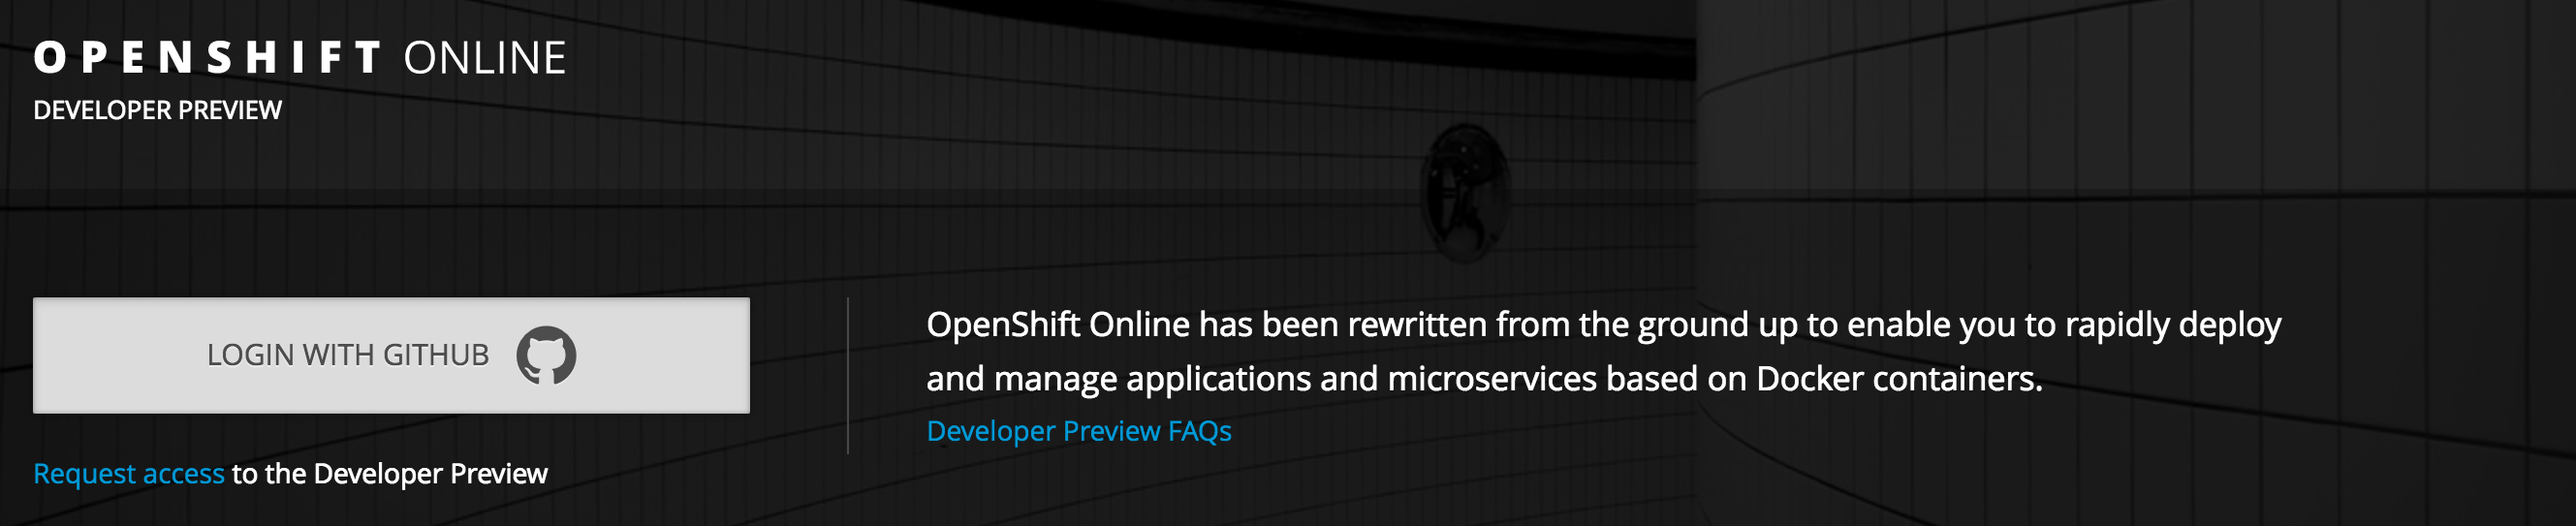
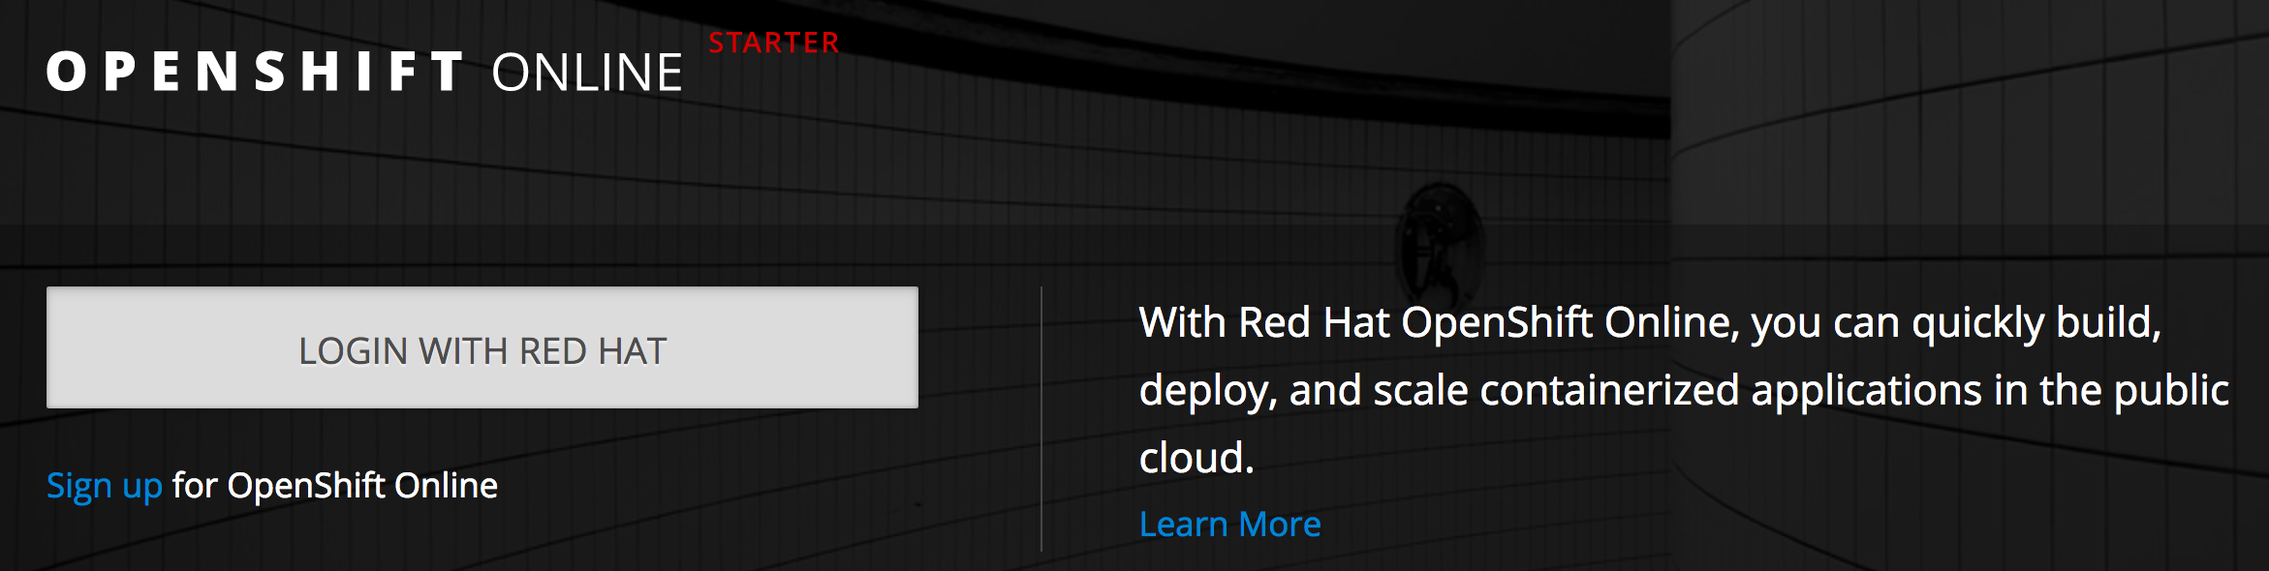
Update image to GA OpenShift Online instead of developer preview.

diff --git a/intro-openshift/cluster-access/01-logging-in-via-the-web-console.md b/intro-openshift/cluster-access/01-logging-in-via-the-web-console.md
@@ -10,7 +10,7 @@ In the case of the OpenShift cluster managing user authentication, the web conso
 
 ![Web Console Login](../../assets/intro-openshift/cluster-access/01-web-console-login.png)
 
-In the case of an external authentication service being used as the identity provider, it will be necessary to login first to the external service. As an example, if you were signed up for the [OpenShift Online Developer Preview](https://www.openshift.com/devpreview/) you would be asked to login via GitHub.
+In the case of an external authentication service being used as the identity provider, it will be necessary to login first to the external service. As an example, if you were accessing [OpenShift Online](https://www.openshift.com/get-started/) you would see:
 
 ![External Login](../../assets/intro-openshift/cluster-access/01-external-identity-provider.png)
 
